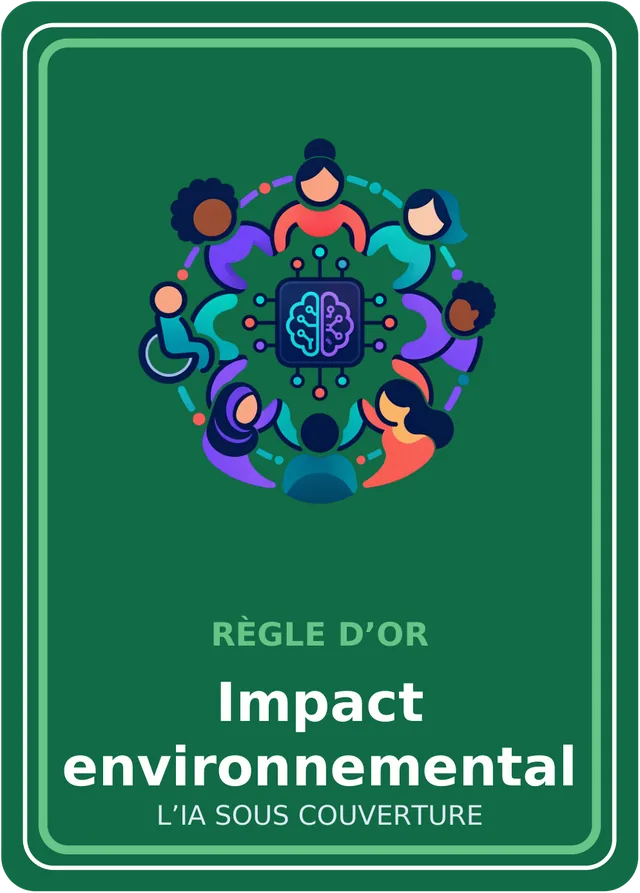
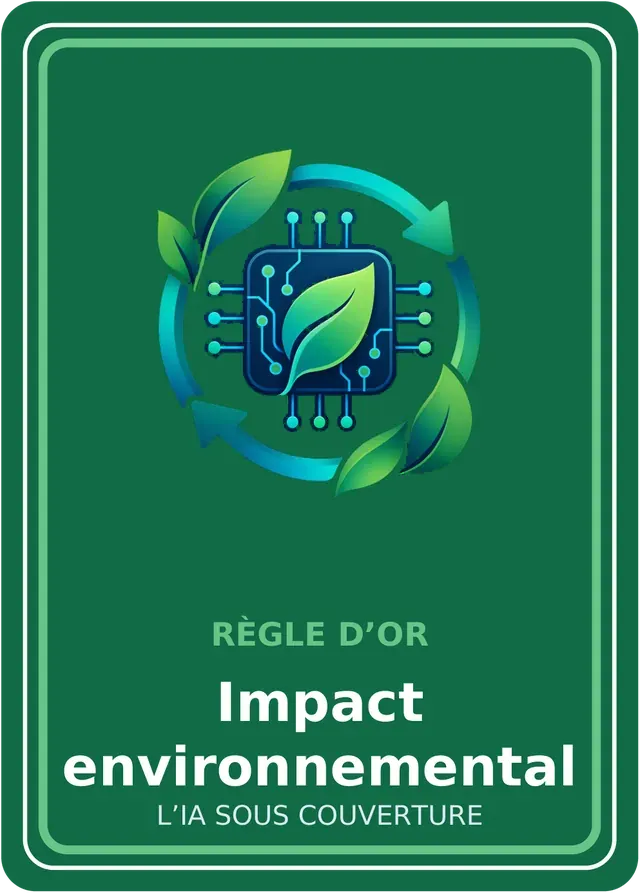
Remet chaque illustration de dos de carte sur sa règle d'or
Six des sept pictogrammes étaient échangés entre les règles. Chaque dos garde
son titre et sa couleur, et reçoit le pictogramme de sa règle :
- 1 Contrôle humain : main au-dessus du cerveau IA (ancien dos 6)
- 2 Sécurité : bouclier et puce (ancien dos 7)
- 3 Gouvernance : institution reliée aux domaines (ancien dos 1)
- 4 Impact environnemental : puce, feuille et recyclage (ancien dos 2)
- 6 Équité & Inclusion : cercle de personnes variées (ancien dos 4)
- 7 L'IA au cœur de l'humain : profil, cœur et main (ancien dos 3)

Les icônes du mode low-tech suivent le même échange. Version v60 et note
dans les nouveautés.

Changed region(s): [[0.2188, 0.1512, 0.7812, 0.5745]]

diff --git a/js/icons.js b/js/icons.js
@@ -4,18 +4,18 @@
 // (trait : stroke currentColor ; éléments pleins : classe « f »).
 
 export const ICONS = {
-  // Contrôle humain & Responsabilité : institution protégée, reliée à six domaines
-  1: `<circle cx="32.0" cy="32.0" r="14"/><path d="M32.0 18.0 L32.0 12.5"/><circle cx="32.0" cy="8.0" r="4.5"/><path d="M44.1 25.0 L48.9 22.2"/><circle cx="52.8" cy="20.0" r="4.5"/><path d="M44.1 39.0 L48.9 41.8"/><circle cx="52.8" cy="44.0" r="4.5"/><path d="M32.0 46.0 L32.0 51.5"/><circle cx="32.0" cy="56.0" r="4.5"/><path d="M19.9 39.0 L15.1 41.8"/><circle cx="11.2" cy="44.0" r="4.5"/><path d="M19.9 25.0 L15.1 22.2"/><circle cx="11.2" cy="20.0" r="4.5"/><path d="M23 29 L32 22.5 L41 29 Z"/><path d="M26 31.5 V38 M32 31.5 V38 M38 31.5 V38 M23 40.5 H41"/>`,
-  // Sécurité & Robustesse : puce avec une feuille, entourée de flèches de recyclage
-  2: `<rect x="22" y="22" width="20" height="20" rx="3"/><path d="M27.0 22.0 L27.0 18.0"/><path d="M27.0 42.0 L27.0 46.0"/><path d="M22.0 27.0 L18.0 27.0"/><path d="M42.0 27.0 L46.0 27.0"/><path d="M32.0 22.0 L32.0 18.0"/><path d="M32.0 42.0 L32.0 46.0"/><path d="M22.0 32.0 L18.0 32.0"/><path d="M42.0 32.0 L46.0 32.0"/><path d="M37.0 22.0 L37.0 18.0"/><path d="M37.0 42.0 L37.0 46.0"/><path d="M22.0 37.0 L18.0 37.0"/><path d="M42.0 37.0 L46.0 37.0"/><path d="M26.5 38 C26 30 31 26 38 26 C38.5 33 34 38 26.5 38 Z"/><path d="M27.5 37 L35 29"/><path d="M43.4 7.5 A27 27 0 0 1 45.5 55.4"/><path d="M47.8 49.4 L45.5 55.4 L51.8 56.3"/><path d="M20.6 56.5 A27 27 0 0 1 18.5 8.6"/><path d="M16.2 14.6 L18.5 8.6 L12.2 7.7"/>`,
-  // Gouvernance des données et de l'IA : profil humain, cœur et réseau
-  3: `<path d="M36 9 C24 8 17 16 18 25 L14 31 L18 32.5 L17.5 36 L19 37 L18.5 39.5 C18.5 42 21 43 24 42.5 L25 52"/><path d="M36 9 C46 9.5 52 17 51 26"/><path d="M36.0 40.8 C24.3 33.0 28.2 23.9 36.0 29.1 C43.8 23.9 47.7 33.0 36.0 40.8 Z"/><circle cx="53.0" cy="8.0" r="3"/><circle cx="58.0" cy="22.0" r="3"/><circle cx="56.0" cy="38.0" r="3"/><path d="M53.0 8.0 L58.0 22.0"/><path d="M58.0 22.0 L56.0 38.0"/><path d="M55.0 22.0 L45.0 26.0"/><path d="M51.0 10.5 L45.0 18.0"/><path d="M14 54 C24 50 40 50 52 46"/>`,
-  // Impact environnemental : cercle de personnes autour d'une puce
-  4: `<rect x="26" y="26" width="12" height="12" rx="3"/><path d="M30.0 26.0 L30.0 22.0"/><path d="M30.0 38.0 L30.0 42.0"/><path d="M26.0 30.0 L22.0 30.0"/><path d="M38.0 30.0 L42.0 30.0"/><path d="M34.0 26.0 L34.0 22.0"/><path d="M34.0 38.0 L34.0 42.0"/><path d="M26.0 34.0 L22.0 34.0"/><path d="M38.0 34.0 L42.0 34.0"/><circle cx="32.0" cy="7.0" r="2.6"/><path d="M27.0 15.0 C27.0 10.5 37.0 10.5 37.0 15.0"/><circle cx="51.1" cy="18.0" r="2.6"/><path d="M46.1 26.0 C46.1 21.5 56.1 21.5 56.1 26.0"/><circle cx="51.1" cy="40.0" r="2.6"/><path d="M46.1 48.0 C46.1 43.5 56.1 43.5 56.1 48.0"/><circle cx="32.0" cy="51.0" r="2.6"/><path d="M27.0 59.0 C27.0 54.5 37.0 54.5 37.0 59.0"/><circle cx="12.9" cy="40.0" r="2.6"/><path d="M7.9 48.0 C7.9 43.5 17.9 43.5 17.9 48.0"/><circle cx="12.9" cy="18.0" r="2.6"/><path d="M7.9 26.0 C7.9 21.5 17.9 21.5 17.9 26.0"/>`,
+  // Contrôle humain & Responsabilité : main protectrice au-dessus d'un réseau, entourée de personnes
+  1: `<path d="M7 12 H14 V22 H7 Z"/><path d="M14 13 C24 11 36 11 46 13.5 C50 14.5 50 18.5 46 18.5 L33 18 C37 19 38 22.5 33.5 22.5 L14 21"/><circle cx="32.0" cy="36.0" r="9"/><circle cx="32.0" cy="36.0" r="2" class="f"/><path d="M32.0 36.0 L38.4 29.6"/><path d="M32.0 36.0 L34.3 44.7"/><path d="M32.0 36.0 L23.3 33.7"/><circle cx="10.0" cy="37.3" r="2.3400000000000003"/><path d="M5.5 44.5 C5.5 40.5 14.5 40.5 14.5 44.5"/><circle cx="54.0" cy="37.3" r="2.3400000000000003"/><path d="M49.5 44.5 C49.5 40.5 58.5 40.5 58.5 44.5"/><circle cx="32.0" cy="53.3" r="2.3400000000000003"/><path d="M27.5 60.5 C27.5 56.5 36.5 56.5 36.5 60.5"/><path d="M14 46 C18 52 24 55 26 55 M50 46 C46 52 40 55 38 55"/>`,
+  // Sécurité & Robustesse : bouclier et puce
+  2: `<path d="M32 5 L52 12 V29 C52 43 43 53 32 58 C21 53 12 43 12 29 V12 Z"/><rect x="25" y="23" width="14" height="14" rx="3"/><path d="M29.7 23.0 L29.7 19.0"/><path d="M29.7 37.0 L29.7 41.0"/><path d="M25.0 27.7 L21.0 27.7"/><path d="M39.0 27.7 L43.0 27.7"/><path d="M34.3 23.0 L34.3 19.0"/><path d="M34.3 37.0 L34.3 41.0"/><path d="M25.0 32.3 L21.0 32.3"/><path d="M39.0 32.3 L43.0 32.3"/><circle cx="32.0" cy="30.0" r="2.5" class="f"/>`,
+  // Gouvernance des données et de l'IA : institution protégée, reliée à six domaines
+  3: `<circle cx="32.0" cy="32.0" r="14"/><path d="M32.0 18.0 L32.0 12.5"/><circle cx="32.0" cy="8.0" r="4.5"/><path d="M44.1 25.0 L48.9 22.2"/><circle cx="52.8" cy="20.0" r="4.5"/><path d="M44.1 39.0 L48.9 41.8"/><circle cx="52.8" cy="44.0" r="4.5"/><path d="M32.0 46.0 L32.0 51.5"/><circle cx="32.0" cy="56.0" r="4.5"/><path d="M19.9 39.0 L15.1 41.8"/><circle cx="11.2" cy="44.0" r="4.5"/><path d="M19.9 25.0 L15.1 22.2"/><circle cx="11.2" cy="20.0" r="4.5"/><path d="M23 29 L32 22.5 L41 29 Z"/><path d="M26 31.5 V38 M32 31.5 V38 M38 31.5 V38 M23 40.5 H41"/>`,
+  // Impact environnemental : puce avec une feuille, entourée de flèches de recyclage
+  4: `<rect x="22" y="22" width="20" height="20" rx="3"/><path d="M27.0 22.0 L27.0 18.0"/><path d="M27.0 42.0 L27.0 46.0"/><path d="M22.0 27.0 L18.0 27.0"/><path d="M42.0 27.0 L46.0 27.0"/><path d="M32.0 22.0 L32.0 18.0"/><path d="M32.0 42.0 L32.0 46.0"/><path d="M22.0 32.0 L18.0 32.0"/><path d="M42.0 32.0 L46.0 32.0"/><path d="M37.0 22.0 L37.0 18.0"/><path d="M37.0 42.0 L37.0 46.0"/><path d="M22.0 37.0 L18.0 37.0"/><path d="M42.0 37.0 L46.0 37.0"/><path d="M26.5 38 C26 30 31 26 38 26 C38.5 33 34 38 26.5 38 Z"/><path d="M27.5 37 L35 29"/><path d="M43.4 7.5 A27 27 0 0 1 45.5 55.4"/><path d="M47.8 49.4 L45.5 55.4 L51.8 56.3"/><path d="M20.6 56.5 A27 27 0 0 1 18.5 8.6"/><path d="M16.2 14.6 L18.5 8.6 L12.2 7.7"/>`,
   // Confiance & Transparence : œil et prisme
   5: `<path d="M5 32 C14 19 50 19 59 32 C50 45 14 45 5 32 Z"/><circle cx="32.0" cy="32.0" r="9"/><circle cx="32.0" cy="32.0" r="3" class="f"/><path d="M38 10 L46 32 L38 54"/><path d="M32.0 23.0 L32.0 13.0"/><path d="M32.0 41.0 L32.0 51.0"/><circle cx="32.0" cy="10.0" r="2"/><circle cx="32.0" cy="54.0" r="2"/>`,
-  // Équité & Inclusion : main protectrice au-dessus d'un réseau, entourée de personnes
-  6: `<path d="M7 12 H14 V22 H7 Z"/><path d="M14 13 C24 11 36 11 46 13.5 C50 14.5 50 18.5 46 18.5 L33 18 C37 19 38 22.5 33.5 22.5 L14 21"/><circle cx="32.0" cy="36.0" r="9"/><circle cx="32.0" cy="36.0" r="2" class="f"/><path d="M32.0 36.0 L38.4 29.6"/><path d="M32.0 36.0 L34.3 44.7"/><path d="M32.0 36.0 L23.3 33.7"/><circle cx="10.0" cy="37.3" r="2.3400000000000003"/><path d="M5.5 44.5 C5.5 40.5 14.5 40.5 14.5 44.5"/><circle cx="54.0" cy="37.3" r="2.3400000000000003"/><path d="M49.5 44.5 C49.5 40.5 58.5 40.5 58.5 44.5"/><circle cx="32.0" cy="53.3" r="2.3400000000000003"/><path d="M27.5 60.5 C27.5 56.5 36.5 56.5 36.5 60.5"/><path d="M14 46 C18 52 24 55 26 55 M50 46 C46 52 40 55 38 55"/>`,
-  // L'IA au cœur de l'humain : bouclier et puce
-  7: `<path d="M32 5 L52 12 V29 C52 43 43 53 32 58 C21 53 12 43 12 29 V12 Z"/><rect x="25" y="23" width="14" height="14" rx="3"/><path d="M29.7 23.0 L29.7 19.0"/><path d="M29.7 37.0 L29.7 41.0"/><path d="M25.0 27.7 L21.0 27.7"/><path d="M39.0 27.7 L43.0 27.7"/><path d="M34.3 23.0 L34.3 19.0"/><path d="M34.3 37.0 L34.3 41.0"/><path d="M25.0 32.3 L21.0 32.3"/><path d="M39.0 32.3 L43.0 32.3"/><circle cx="32.0" cy="30.0" r="2.5" class="f"/>`,
+  // Équité & Inclusion : cercle de personnes autour d'une puce
+  6: `<rect x="26" y="26" width="12" height="12" rx="3"/><path d="M30.0 26.0 L30.0 22.0"/><path d="M30.0 38.0 L30.0 42.0"/><path d="M26.0 30.0 L22.0 30.0"/><path d="M38.0 30.0 L42.0 30.0"/><path d="M34.0 26.0 L34.0 22.0"/><path d="M34.0 38.0 L34.0 42.0"/><path d="M26.0 34.0 L22.0 34.0"/><path d="M38.0 34.0 L42.0 34.0"/><circle cx="32.0" cy="7.0" r="2.6"/><path d="M27.0 15.0 C27.0 10.5 37.0 10.5 37.0 15.0"/><circle cx="51.1" cy="18.0" r="2.6"/><path d="M46.1 26.0 C46.1 21.5 56.1 21.5 56.1 26.0"/><circle cx="51.1" cy="40.0" r="2.6"/><path d="M46.1 48.0 C46.1 43.5 56.1 43.5 56.1 48.0"/><circle cx="32.0" cy="51.0" r="2.6"/><path d="M27.0 59.0 C27.0 54.5 37.0 54.5 37.0 59.0"/><circle cx="12.9" cy="40.0" r="2.6"/><path d="M7.9 48.0 C7.9 43.5 17.9 43.5 17.9 48.0"/><circle cx="12.9" cy="18.0" r="2.6"/><path d="M7.9 26.0 C7.9 21.5 17.9 21.5 17.9 26.0"/>`,
+  // L'IA au cœur de l'humain : profil humain, cœur et réseau
+  7: `<path d="M36 9 C24 8 17 16 18 25 L14 31 L18 32.5 L17.5 36 L19 37 L18.5 39.5 C18.5 42 21 43 24 42.5 L25 52"/><path d="M36 9 C46 9.5 52 17 51 26"/><path d="M36.0 40.8 C24.3 33.0 28.2 23.9 36.0 29.1 C43.8 23.9 47.7 33.0 36.0 40.8 Z"/><circle cx="53.0" cy="8.0" r="3"/><circle cx="58.0" cy="22.0" r="3"/><circle cx="56.0" cy="38.0" r="3"/><path d="M53.0 8.0 L58.0 22.0"/><path d="M58.0 22.0 L56.0 38.0"/><path d="M55.0 22.0 L45.0 26.0"/><path d="M51.0 10.5 L45.0 18.0"/><path d="M14 54 C24 50 40 50 52 46"/>`,
 };

diff --git a/js/changelog.js b/js/changelog.js
@@ -6,6 +6,14 @@
 
 export const CHANGELOG = [
   {
+    date: "2026-11-23",
+    title: "Illustrations des règles d'or remises à leur place",
+    items: [
+      "Chaque dos de carte montre désormais l'illustration de sa règle d'or : la main qui garde le contrôle pour le contrôle humain, le bouclier pour la sécurité, l'institution reliée à tous les domaines pour la gouvernance, la feuille pour l'impact environnemental, le cercle de personnes pour l'équité et l'inclusion, le cœur pour l'IA au cœur de l'humain. Les titres et les couleurs ne changent pas.",
+      "Le mode low-tech suit le même changement.",
+    ],
+  },
+  {
     date: "2026-11-17",
     title: "Aperçu des liens, code plus long, écran animateur allégé",
     items: [

diff --git a/sw.js b/sw.js
@@ -1,7 +1,7 @@
 // Service worker : met l'application en cache pour qu'elle fonctionne même sans réseau
 // (utile dans une salle de formation avec un Wi-Fi capricieux).
 // Incrémenter VERSION à chaque modification des fichiers pour forcer la mise à jour.
-const VERSION = "v59";
+const VERSION = "v60";
 // Seul le cœur de l'application est préchargé ; les images sont mises en cache à la première
 // utilisation (le mode low-tech n'en télécharge presque aucune).
 const ASSETS = [
